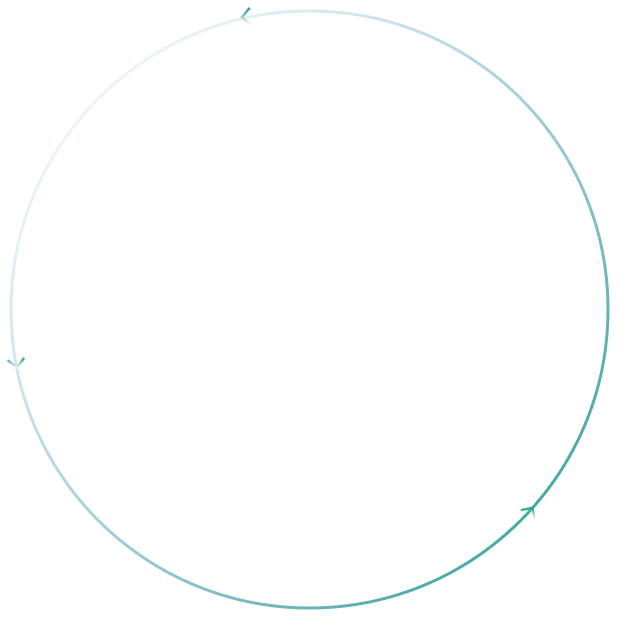
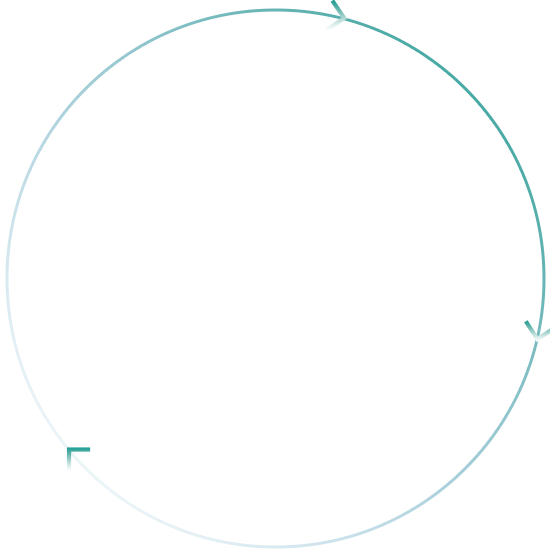
main page circle

diff --git a/css/main.css b/css/main.css
@@ -14,7 +14,7 @@
     transition: left 0.4s ease-out;
     display: flex;
 }*/
-.slide li{
+.slide > li{
     height: 100vh;
     background-repeat: no-repeat;
     background-position: center center;
@@ -136,23 +136,88 @@
 .autoplay_btn .play{
     display: none;
 }
-/*
-
-.inner_circle ul:before{
-    content: '';
-    width: 600px;
-    height: 600px;
-    background-image: url(../images/sm_circle.png) no-repeat;
+.inner_circle{
+    position: absolute;
+    width: 630px;
+    height: 630px;
+    left: 45%;
+    margin-top: 9%;
 }
-.inner_circle ul:after{
-    content: '';
-    width: 620px;
-    height: 620px;
-    background-image: url(../images/bg_circle.png) no-repeat;
+.inner_circle li{
+    display: flex;
 }
-
-
-*/
+.inner_circle:before{
+    content: '';
+    position: absolute;
+    width: 500px;
+    height: 500px;
+    background: url(../images/sm_circle.png) no-repeat;
+    left: 1.5%;
+    top: 2.5%;
+    z-index: 0;
+    animation: move 10s linear infinite forwards;
+    transform-origin: 50% 50%;
+}   
+@keyframes move {
+    0%{
+        transform: rotate(0);
+    }
+    100%{
+        transform: rotate(360deg);
+    }
+}
+.inner_circle:after{
+    content: '';
+    position: absolute;
+    width: 550px;
+    height: 550px;
+    background: url(../images/bg_circle.png) no-repeat;
+    top: -1%;
+    left: -2%;
+    animation: moving 10s linear infinite forwards;
+    transform-origin: 50% 50%;
+}
+@keyframes moving{
+    0%{
+        transform: rotate(360deg);
+    }
+    100%{
+        transform: rotate(0deg);
+    }
+}
+.inner_circle li{
+    position: absolute;
+    background: var(--white);
+    width: 150px;
+    height: 150px;
+    border-radius: 50%;
+    align-items: center;
+    justify-content: center;
+    z-index: 2;
+    display: flex;
+    flex-direction: column;
+    gap: 5%;
+    transition:all 0.5s;
+}
+.inner_circle li:first-child{
+    left: 0;
+    top: 8%;
+}
+.inner_circle li:nth-child(2){
+    left: 30%;
+    top: 68%;
+}
+.inner_circle li:nth-child(3){
+    left: 65%;
+    top: 8%;
+}
+.inner_circle li span:first-child{
+    font-size: 50px;
+}
+.inner_circle li:hover{
+    background: linear-gradient(45deg, #8092af, #acf0eb);
+    color: var(--white);
+}
 /*product*/
 .product_bg{
     background: url(../images/product_bg.jpg) no-repeat center center/cover;

diff --git a/index.html b/index.html
@@ -130,25 +130,23 @@
     <div class="slide_wrapper control">
          <ul class="slide">
              <li id="slide1">
-                 <div class="slide_content">
-                     <h2 class="slide_tt w_color"><em>화학</em>, 그 이상의 가치로 공동의 미래를 창조하는 솔루션 파트너</h2>
-                     <div class="inner_circle">
-                         <ul>
-                             <li>
-                                <span class="material-symbols-outlined">change_circle</span>
-                                <span>변화</span>                                
-                             </li>
-                             <li>
-                                <span class="material-symbols-outlined">handshake</span>
-                                <span>신뢰</span>                                
-                             </li>
-                             <li>
-                                <span class="material-symbols-outlined">public</span>
-                                <span>환경</span>                                
-                             </li>
-                         </ul>
-                     </div>
-                 </div>
+                <h2 class="slide_tt w_color"><em>화학</em>, 그 이상의 가치로 공동의 미래를 창조하는 솔루션 파트너</h2>
+                <div class="circle">
+                    <ul class="inner_circle">
+                        <li>
+                        <span class="material-symbols-outlined">change_circle</span>
+                        <span>변화</span>                                
+                        </li>
+                        <li>
+                        <span class="material-symbols-outlined">handshake</span>
+                        <span>신뢰</span>                                
+                        </li>
+                        <li>
+                        <span class="material-symbols-outlined">public</span>
+                        <span>환경</span>                                
+                        </li>
+                    </ul>
+                </div>
              </li>
              <li id="slide2">
                  <div class="slide_content">
